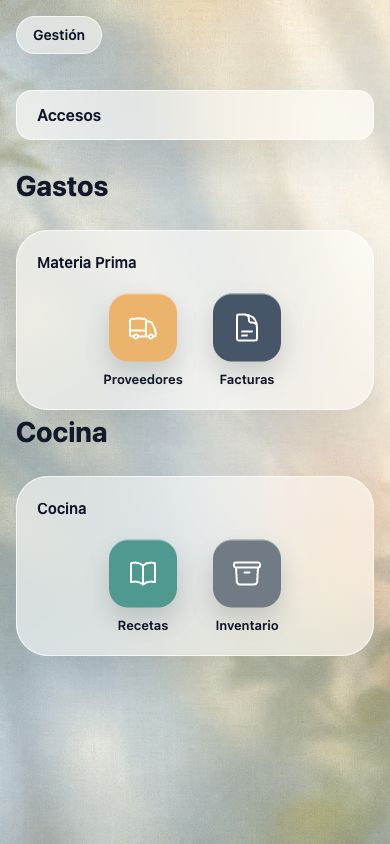
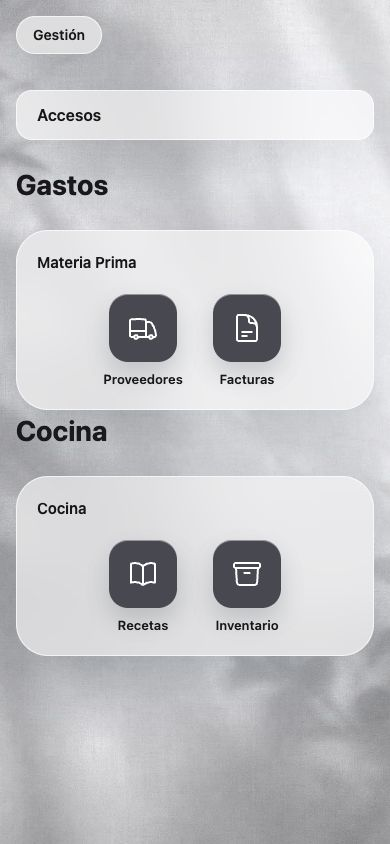
Use sober neutral accents and distinguish gray cards from white pages

diff --git a/src/app/page.tsx b/src/app/page.tsx
@@ -39,13 +39,13 @@ const sections: {
             ...t.home.tiles.providers,
             href: "/providers",
             icon: TruckIcon,
-            bg: "bg-[linear-gradient(145deg,#f6b05f,#d86e42)]",
+            bg: "bg-[linear-gradient(145deg,#71717a,#3f3f46)]",
           },
           {
             ...t.home.tiles.invoices,
             href: "/invoices",
             icon: DocumentTextIcon,
-            bg: "bg-[linear-gradient(145deg,#8a96a8,#44556a)]",
+            bg: "bg-[linear-gradient(145deg,#71717a,#3f3f46)]",
           },
         ],
       },
@@ -56,13 +56,13 @@ const sections: {
             ...t.home.tiles.employees,
             href: "/employees",
             icon: UserGroupIcon,
-            bg: "bg-[linear-gradient(145deg,#e990a9,#c84d7b)]",
+            bg: "bg-[linear-gradient(145deg,#71717a,#3f3f46)]",
           },
           {
             ...t.home.tiles.hours,
             href: "#",
             icon: ClockIcon,
-            bg: "bg-[linear-gradient(145deg,#b9c0c5,#707b84)]",
+            bg: "bg-[linear-gradient(145deg,#71717a,#3f3f46)]",
           },
         ],
       },
@@ -78,13 +78,13 @@ const sections: {
             ...t.home.tiles.recipes,
             href: "/recipes",
             icon: BookOpenIcon,
-            bg: "bg-[linear-gradient(145deg,#5bd0c6,#2c9b91)]",
+            bg: "bg-[linear-gradient(145deg,#71717a,#3f3f46)]",
           },
           {
             ...t.home.tiles.inventory,
             href: "/inventory",
             icon: ArchiveBoxIcon,
-            bg: "bg-[linear-gradient(145deg,#a8b3bd,#6f7b86)]",
+            bg: "bg-[linear-gradient(145deg,#71717a,#3f3f46)]",
           },
         ],
       },
@@ -100,13 +100,13 @@ const sections: {
             ...t.home.tiles.menu,
             href: "/menu",
             icon: ClipboardDocumentListIcon,
-            bg: "bg-[linear-gradient(145deg,#9f7aea,#6b4bd6)]",
+            bg: "bg-[linear-gradient(145deg,#71717a,#3f3f46)]",
           },
           {
             ...t.home.tiles.cashOutputs,
             href: "#",
             icon: BanknotesIcon,
-            bg: "bg-[linear-gradient(145deg,#b8c0c5,#727d86)]",
+            bg: "bg-[linear-gradient(145deg,#71717a,#3f3f46)]",
           },
         ],
       },

diff --git a/src/app/globals.css b/src/app/globals.css
@@ -2,13 +2,13 @@
 
 :root {
   --background: #ffffff;
-  --foreground: #0f172a;
-  --cream: #f8fafc;
-  --cream-dark: #e2e8f0;
-  --warm: #2563eb;
-  --warm-dark: #1d4ed8;
+  --foreground: #18181b;
+  --cream: #f4f4f5;
+  --cream-dark: #e4e4e7;
+  --warm: #3f3f46;
+  --warm-dark: #27272a;
   --accent: #b45309;
-  --muted: #475569;
+  --muted: #52525b;
 }
 
 @theme inline {
@@ -42,12 +42,12 @@ body {
 }
 
 :where(button, a, input, select, textarea, summary):focus-visible {
-  outline: 2px solid #2563eb;
+  outline: 2px solid #52525b;
   outline-offset: 3px;
 }
 
 :where(button, a, summary) { touch-action: manipulation; }
-:where(input, select, textarea) { accent-color: #2563eb; }
+:where(input, select, textarea) { accent-color: #3f3f46; }
 summary { cursor: pointer; min-height: 2.75rem; align-content: center; }
 
 @layer components {
@@ -61,8 +61,8 @@ summary { cursor: pointer; min-height: 2.75rem; align-content: center; }
   }
   .app-page-wide { max-width: 72rem; }
   .app-card, .app-panel, .app-panel-strong, .app-list-row {
-    border: 1px solid #e2e8f0;
-    background: #fff;
+    border: 1px solid #e4e4e7;
+    background: #f4f4f5;
   }
   .app-panel, .app-panel-strong { border-radius: 1rem; }
   .app-panel-strong { box-shadow: 0 20px 60px rgb(15 23 42 / 18%); }
@@ -88,13 +88,14 @@ summary { cursor: pointer; min-height: 2.75rem; align-content: center; }
     padding-inline: 0.5rem;
     font-size: 0.875rem;
     font-weight: 600;
-    color: #1d4ed8;
+    color: #3f3f46;
   }
 
   /* Wallpaper and translucent surfaces belong only to the launcher at /. */
   .home-screen {
     min-height: 100svh;
-    background: #eff5f4 url("/wallpapers/calm-ios-v2.webp") center / cover fixed no-repeat;
+    background: #e4e4e7 url("/wallpapers/calm-ios-v2.webp") center / cover fixed no-repeat;
+    background-blend-mode: luminosity;
   }
   .home-screen .ios-glass {
     border: 1px solid rgb(255 255 255 / 68%);

diff --git a/src/app/providers/page.tsx b/src/app/providers/page.tsx
@@ -77,7 +77,7 @@ export default async function ProvidersPage({
       <main className="flex-1 py-4">
         {providers.length === 0 ? (
           <div className="app-panel flex flex-col items-center justify-center px-6 py-16 text-center">
-            <div className="app-icon mb-5 flex h-16 w-16 items-center justify-center bg-[#b45309] text-white">
+            <div className="app-icon mb-5 flex h-16 w-16 items-center justify-center bg-zinc-200 text-zinc-700">
               <Icon className="h-8 w-8" />
             </div>
             <h2 className="mb-2 text-lg font-semibold text-[#0f172a]">{emptyTitle}</h2>
@@ -88,8 +88,8 @@ export default async function ProvidersPage({
           <div className="space-y-3">
             {providers.map((provider) => (
               <Link key={provider.id} href={`/providers/${provider.id}`}
-                className="app-list-row flex items-center gap-4 rounded-2xl p-4 transition hover:bg-slate-50 active:scale-[0.99]">
-                <div className={`app-icon flex h-12 w-12 items-center justify-center text-white ${provider.productCount > 0 ? "bg-[#b45309]" : "bg-[#2563eb]"}`}>
+                className="app-list-row flex items-center gap-4 rounded-2xl p-4 transition hover:bg-zinc-200 active:scale-[0.99]">
+                <div className="app-icon flex h-12 w-12 items-center justify-center bg-zinc-200 text-zinc-700">
                   <Icon className="h-6 w-6" />
                 </div>
                 <div className="min-w-0 flex-1">

diff --git a/src/app/inventory/item-search.tsx b/src/app/inventory/item-search.tsx
@@ -34,7 +34,7 @@ export function ItemSearch({ items }: { items: ItemSuggestion[] }): ReactElement
       }
     }} />
     {visible && <div className="absolute z-20 mt-2 w-full overflow-hidden rounded-2xl border border-slate-200 bg-white shadow-lg">
-      {matches.length === 0 ? <p role="status" className="p-4 text-sm text-muted">No hay productos que coincidan.</p> : <ul id={listId} role="listbox" aria-label="Productos encontrados">{matches.map((item, index) => <li key={item.id} id={`${listId}-${index}`} role="option" aria-selected={index === selected} className={index === selected ? "bg-sky-50" : ""}><Link className="block px-4 py-3 text-sm hover:bg-sky-50" href={`/inventory/items/${item.id}`} onClick={() => { setOpen(false); }}>{item.name}</Link></li>)}</ul>}
+      {matches.length === 0 ? <p role="status" className="p-4 text-sm text-muted">No hay productos que coincidan.</p> : <ul id={listId} role="listbox" aria-label="Productos encontrados">{matches.map((item, index) => <li key={item.id} id={`${listId}-${index}`} role="option" aria-selected={index === selected} className={index === selected ? "bg-zinc-100" : ""}><Link className="block px-4 py-3 text-sm hover:bg-zinc-100" href={`/inventory/items/${item.id}`} onClick={() => { setOpen(false); }}>{item.name}</Link></li>)}</ul>}
     </div>}
   </div>;
 }

diff --git a/src/components/list-page-shell.tsx b/src/components/list-page-shell.tsx
@@ -54,7 +54,7 @@ interface EmptyStateProps {
 export function EmptyState({ icon: Icon, title, description, ctaHref, ctaText }: EmptyStateProps): ReactElement {
   return (
     <div className="app-panel flex flex-col items-center justify-center px-6 py-16 text-center">
-      <div className="app-icon mb-5 flex h-16 w-16 items-center justify-center bg-[#2563eb] text-white">
+      <div className="app-icon mb-5 flex h-16 w-16 items-center justify-center bg-zinc-200 text-zinc-700">
         <Icon className="h-8 w-8" />
       </div>
       <h2 className="mb-2 text-lg font-semibold text-[#0f172a]">{title}</h2>
@@ -82,8 +82,8 @@ export function ListPageRow({
   subtitleClassName,
 }: ListPageRowProps): ReactElement {
   return (
-    <Link href={href} className="app-list-row flex items-center gap-4 rounded-2xl p-4 transition hover:bg-slate-50 active:scale-[0.99]">
-      <div className="app-icon flex h-12 w-12 items-center justify-center bg-[#2563eb] text-white">
+    <Link href={href} className="app-list-row flex items-center gap-4 rounded-2xl p-4 transition hover:bg-zinc-200 active:scale-[0.99]">
+      <div className="app-icon flex h-12 w-12 items-center justify-center bg-zinc-200 text-zinc-700">
         <Icon className="h-6 w-6" />
       </div>
       <div className="min-w-0 flex-1">

diff --git a/src/app/invoices/invoice-list.tsx b/src/app/invoices/invoice-list.tsx
@@ -88,11 +88,11 @@ export function InvoiceList({
               className={`min-h-11 shrink-0 rounded-lg px-3 py-2 text-[13px] font-semibold transition sm:px-4 sm:text-sm ${
                 active
                   ? "bg-white text-[#0f172a] shadow-sm"
-                  : "text-[#475569] hover:bg-slate-50"
+                  : "text-[#475569] hover:bg-zinc-200"
               }`}
             >
               {f.label}
-              <span className={`ml-1 text-xs ${active ? "text-[#2563eb]" : "text-[#64748b]"}`}>
+              <span className={`ml-1 text-xs ${active ? "text-[#3f3f46]" : "text-[#64748b]"}`}>
                 {counts[f.key]}
               </span>
             </button>
@@ -263,7 +263,7 @@ function InvoiceRowItem({
             aria-label={t.invoices.list.delete}
             variant="ghost"
             size="icon"
-            className="ml-auto h-12 w-12 shrink-0 rounded-full bg-white text-[#475569] hover:bg-slate-50"
+            className="ml-auto h-12 w-12 shrink-0 rounded-full bg-white text-[#475569] hover:bg-zinc-200"
           >
             <TrashIcon className="h-5 w-5" />
           </Button>

diff --git a/src/app/providers/[id]/page.tsx b/src/app/providers/[id]/page.tsx
@@ -43,12 +43,12 @@ export default async function ProviderPage({
       />
 
       <main className="flex-1 space-y-6 py-5">
-        <section className="app-card rounded-2xl bg-white p-6">
+        <section className="app-card rounded-2xl p-6">
           <ProviderForm provider={provider} />
         </section>
 
         {provider.type === "producto" && (
-          <section className="app-card rounded-2xl bg-white p-6">
+          <section className="app-card rounded-2xl p-6">
             <ProductList products={provider.products} providerId={provider.id} />
             <div className="mt-4 border-t border-[#e2e8f0] pt-4">
               <AddProductForm providerId={provider.id} units={units} />
@@ -57,7 +57,7 @@ export default async function ProviderPage({
           </section>
         )}
 
-        <section className="app-card rounded-2xl bg-white p-6">
+        <section className="app-card rounded-2xl p-6">
           <DebtForm providerId={provider.id} currentDebt={provider.debt} />
         </section>
       </main>

diff --git a/src/app/inventory/fridge-group.tsx b/src/app/inventory/fridge-group.tsx
@@ -1,12 +1,11 @@
 import type { ReactElement, ReactNode } from "react";
 
-/** The number determines the same accent in current and historical lists. */
+/** Neutral surfaces keep the same treatment in current and historical lists. */
 export function FridgeGroup({ number, name, children }: {
   number: number; name: string | null; children: ReactNode;
 }): ReactElement {
-  const hue = (205 + (number - 1) * 137.508) % 360;
-  return <section className="overflow-hidden rounded-2xl border border-slate-200 bg-white">
-    <header className="border-b border-slate-200 px-4 py-3" style={{ borderLeft: `8px solid hsl(${hue} 58% 43%)`, backgroundColor: "#f8fafc" }}>
+  return <section className="app-card overflow-hidden rounded-2xl">
+    <header className="border-b border-zinc-300 bg-zinc-200 px-4 py-3">
       <h2 className="text-lg font-semibold text-[#0f172a]">Heladera {number}{name === null ? "" : ` · ${name}`}</h2>
     </header>
     <div className="space-y-2 px-4 py-3">{children}</div>

diff --git a/src/app/invoices/new/_components/invoice-lines-editor.tsx b/src/app/invoices/new/_components/invoice-lines-editor.tsx
@@ -33,7 +33,7 @@ export function InvoiceLinesEditor({
     <section className="space-y-3">
       <div className="flex items-center justify-between px-1">
         <h2 className="text-sm font-medium text-[#475569]">{t.invoices.lines.heading}</h2>
-        <span className="text-xs text-[#2563eb]">{t.invoices.lines.count(lines.length)}</span>
+        <span className="text-xs text-[#3f3f46]">{t.invoices.lines.count(lines.length)}</span>
       </div>
 
       {lines.map((line, idx) => {
@@ -163,7 +163,7 @@ export function InvoiceLinesEditor({
         onClick={addLine}
         disabled={!providerSelected}
         variant="secondary"
-        className="w-full border-dashed border-[#2563eb] py-3 text-sm text-[#2563eb] hover:bg-slate-50"
+        className="w-full border-dashed border-[#3f3f46] py-3 text-sm text-[#3f3f46] hover:bg-zinc-200"
       >
         <PlusIcon className="h-4 w-4" />
         {t.invoices.lines.add}

diff --git a/src/app/invoices/new/page.tsx b/src/app/invoices/new/page.tsx
@@ -22,12 +22,12 @@ export default async function NewInvoicePage(): Promise<ReactElement> {
 
       <main className="flex-1 py-5 pb-24">
         {providers.length === 0 ? (
-          <div className="app-card rounded-2xl bg-white p-6 text-center">
+          <div className="app-card rounded-2xl p-6 text-center">
             <p className="mb-2 text-[#0f172a]">{t.invoices.noProvidersTitle}</p>
             <p className="text-sm text-[#475569]">{t.invoices.noProvidersHint}</p>
             <Link
               href="/providers"
-              className="mt-4 inline-block rounded-full bg-[#2563eb] px-5 py-3 text-sm font-medium text-white"
+              className="mt-4 inline-block rounded-full bg-[#3f3f46] px-5 py-3 text-sm font-medium text-white"
             >
               {t.invoices.goToProviders}
             </Link>

diff --git a/src/components/ui/button.tsx b/src/components/ui/button.tsx
@@ -6,8 +6,8 @@ type ButtonVariant = "primary" | "secondary" | "ghost" | "danger";
 type ButtonSize = "default" | "compact" | "icon";
 
 const variantClasses: Record<ButtonVariant, string> = {
-  primary: "border border-blue-600 bg-blue-600 text-white hover:bg-blue-700 active:bg-blue-800",
-  secondary: "border border-slate-300 bg-white text-slate-900 hover:bg-slate-50 active:bg-slate-100",
+  primary: "border border-zinc-800 bg-zinc-800 text-white hover:bg-zinc-900 active:bg-zinc-950",
+  secondary: "border border-slate-300 bg-white text-slate-900 hover:bg-zinc-200 active:bg-slate-100",
   ghost: "border border-transparent bg-transparent text-slate-600 hover:bg-slate-100 active:bg-slate-200",
   danger: "border border-red-600 bg-red-600 text-white hover:bg-red-700 active:bg-red-800",
 };

diff --git a/src/app/recipes/[id]/page.tsx b/src/app/recipes/[id]/page.tsx
@@ -28,8 +28,8 @@ export default async function RecipePage({
         actions={<DeleteButton id={recipe.id} name={recipe.name} deleteAction={deleteRecipe} redirectTo="/recipes" />}
       />
       <main className="flex-1 space-y-4 px-6 py-4">
-        <div className="app-card rounded-2xl bg-white p-6"><RecipeForm recipe={recipe} /></div>
-        <div className="app-card rounded-2xl bg-white p-6">
+        <div className="app-card rounded-2xl p-6"><RecipeForm recipe={recipe} /></div>
+        <div className="app-card rounded-2xl p-6">
           <h2 className="mb-4 text-lg font-medium text-[#0f172a]">{t.recipes.ingredients}</h2>
           {recipe.ingredients.length === 0 ? (
             <p className="text-[#475569]">{t.recipes.noIngredients}</p>
